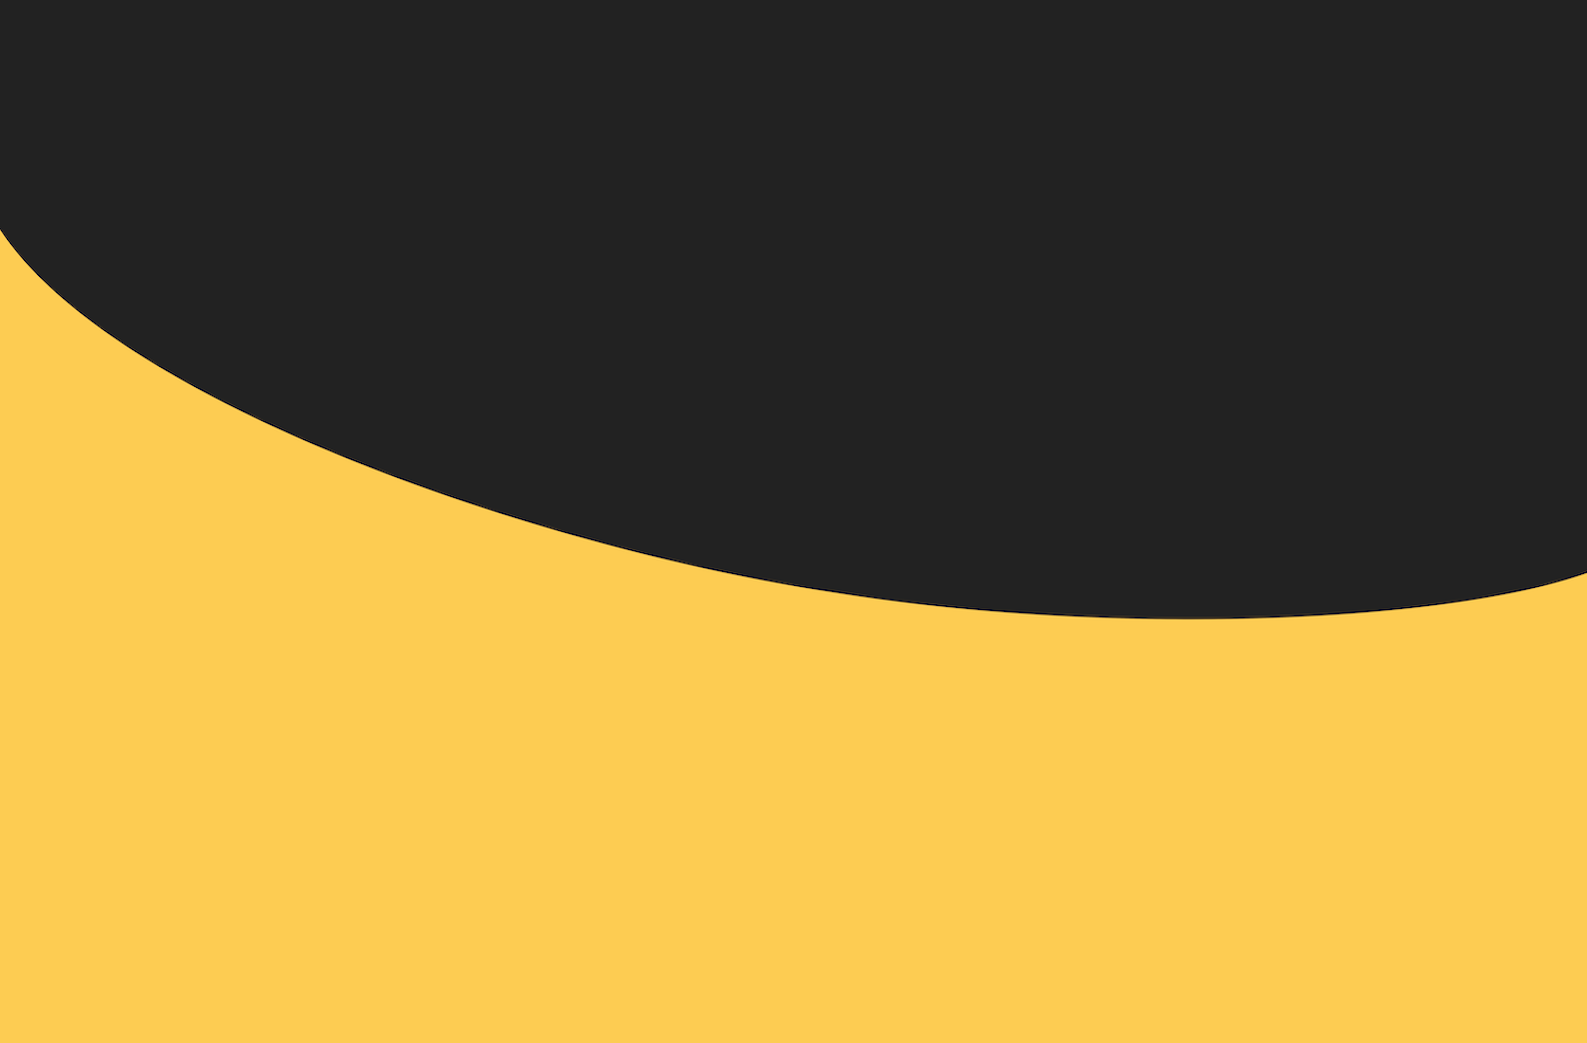
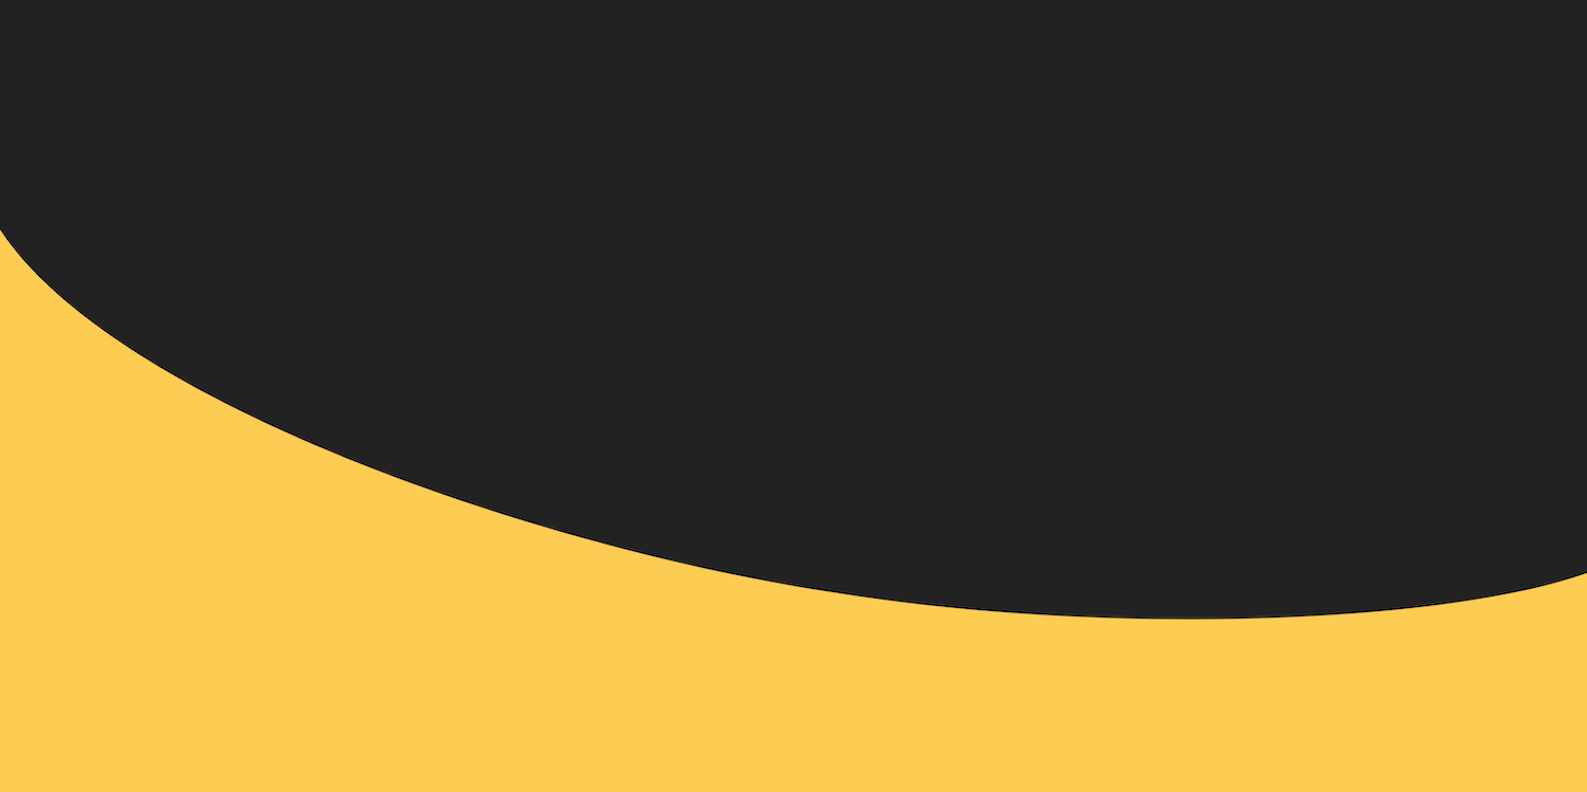
Update

Changed region(s): [[0.0, 0.2121, 1.0, 0.7879]]

diff --git a/css/new-age.min.css b/css/new-age.min.css
@@ -2,4 +2,4 @@
  * Start Bootstrap - New Age v5.0.9 (https://startbootstrap.com/theme/new-age)
  * Copyright 2013-2020 Start Bootstrap
  * Licensed under MIT (https://github.com/StartBootstrap/startbootstrap-new-age/blob/master/LICENSE)
- */body,html{width:100%;height:100%}body{font-family:Helvetica,Arial,sans-serif}a{color:#fdcc52;transition:all .35s}a:focus,a:hover{color:#fcbd20}hr{max-width:100px;margin:25px auto 0;border-width:1px;border-color:rgba(34,34,34,.1)}hr.light{border-color:#fff}h1,h2,h3,h4,h5,h6{font-family:Comfortaa,Helvetica,Arial,serif;font-weight:200;letter-spacing:1px}p{font-size:18px;line-height:1.5;margin-bottom:20px}section{padding:100px 0}section h2{font-size:50px}#mainNav{border-color:rgba(34,34,34,.05);background-color:#fff;transition:all .35s;font-family:Catamaran,Helvetica,Arial,sans-serif;font-weight:200;letter-spacing:1px}#mainNav .navbar-brand{color:#fdcc52;font-family:Catamaran,Helvetica,Arial,sans-serif;font-weight:200;letter-spacing:1px}#mainNav .navbar-brand:focus,#mainNav .navbar-brand:hover{color:#fcbd20}#mainNav .navbar-toggler{font-size:12px;padding:8px 10px;color:#fff}#mainNav .navbar-nav>li>a{font-size:11px;font-family:Lato,Helvetica,Arial,sans-serif;letter-spacing:2px;text-transform:uppercase}#mainNav .navbar-nav>li>a.active{color:#fdcc52!important;background-color:transparent}#mainNav .navbar-nav>li>a.active:hover{background-color:transparent}#mainNav .navbar-nav>li>a,#mainNav .navbar-nav>li>a:focus{color:#fff}#mainNav .navbar-nav>li>a:focus:hover,#mainNav .navbar-nav>li>a:hover{color:#fdcc52}@media (min-width:992px){#mainNav{border-color:transparent;background-color:transparent}#mainNav .navbar-brand{color:fade(white,70%)}#mainNav .navbar-brand:focus,#mainNav .navbar-brand:hover{color:#fff}#mainNav .navbar-nav>li>a,#mainNav .navbar-nav>li>a:focus{color:rgba(255,255,255,.7)}#mainNav .navbar-nav>li>a:focus:hover,#mainNav .navbar-nav>li>a:hover{color:#fff}#mainNav.navbar-shrink{border-color:rgba(34,34,34,.1);background-color:#1C1C1C}#mainNav.navbar-shrink .navbar-brand{color:#fff}#mainNav.navbar-shrink .navbar-brand:focus,#mainNav.navbar-shrink .navbar-brand:hover{color:#fdcc52}#mainNav.navbar-shrink .navbar-nav>li>a,#mainNav.navbar-shrink .navbar-nav>li>a:focus{color:#fff}#mainNav.navbar-shrink .navbar-nav>li>a:focus:hover,#mainNav.navbar-shrink .navbar-nav>li>a:hover{color:#fdcc52}}section.masthead{position:relative;width:100%;height:auto;background-size:100% 100%;padding-top:130px;padding-bottom:0px;color:#ffffff;background:#1C1C1C;background:url(../img/background.png)}header.masthead .header-content{margin-bottom:0px;text-align:center}section.masthead .header-content h1{font-size:30px}section.masthead .device-container{max-width:690px;margin-right:auto;margin-left:auto}header.masthead .device-container .screen img{border-radius:3px}@media (min-width:992px){header.masthead{height:100vh;min-height:775px;padding-top:0;padding-bottom:0}header.masthead .header-content{margin-bottom:0;text-align:left}header.masthead .header-content h1{font-size:50px}header.masthead .device-container{max-width:250px}header.masthead .device-container{max-width:285px}}section.download{position:relative;padding:25px 0}section.download h2{font-size:20px;color:#FFFFFF;margin-top:0;}section.download .badges .badge-link{display:block;margin-bottom:25px}section.download .badges .badge-link:last-child{margin-bottom:0}section.download .badges .badge-link img{height:60px}@media (min-width:768px){section.download .badges .badge-link{display:inline-block;margin-bottom:0}}@media (min-width:768px){section.download h2{font-size:60px}}section.features {background-color:#1c1c1c;padding:15px}.section-heading{margin-bottom:0px;padding-top:0;padding-bottom:0}section.features .section-heading h2{margin-top:0;margin-bottom:0;color:#FFFFFF}section.features .section-heading p{margin-bottom:0;margin-top:0}section.features .device-container,section.features .feature-item{max-width:325px;margin:0}section.features .device-container{margin-bottom:0;margin-top:0;padding-top:0}@media (min-width:992px){section.features .device-container{margin-bottom:0;margin-top:0}}section.features .feature-item{padding-top:0;padding-bottom:0;text-align:center}section.features .feature-item h3{font-size:60px;color:#FFFFFF}section.features .feature-item i{font-size:60px;color:#FFFFFF;display:block;margin-bottom:0px;background:#1C1C1C;-webkit-background-clip:text;background-clip:text;-webkit-text-fill-color:transparent}section.cta{position:relative;padding:25px 0;width:100%;height:auto;background-image:url(../img/background2.png);background-repeat:no-repeat;background-size:100% 100%;margin:0}section.cta .cta-content{position:relative;z-index:1}section.cta .cta-content h2{font-size:90px;max-width:2000px;margin-top:50px;margin-bottom:25px;color:#ffffff}@media (min-width:768px){section.cta .device-container{max-width:1000px} .cta-content h2{font-size:60px;max-width:1000px}}section.cta .overlay{position:absolute;top:auto;left:auto;width:100%;height:100%;background-color:#FDCC52}section.contact{text-align:center}section.contact h2{margin-top:0;margin-bottom:25px}section.contact h2 i{color:#dd4b39}section.contact ul.list-social{margin-bottom:0}section.contact ul.list-social li a{font-size:40px;line-height:80px;display:block;width:80px;height:80px;color:#1C1C1C;border-radius:100%}section.contact ul.list-social li.social-twitter a{background-color:#1da1f2}section.contact ul.list-social li.social-twitter a:hover{background-color:#0d95e8}section.contact ul.list-social li.social-facebook a{background-color:#3b5998}section.contact ul.list-social li.social-facebook a:hover{background-color:#344e86}section.contact ul.list-social li.social-google-plus a{background-color:#dd4b39}section.contact ul.list-social li.social-google-plus a:hover{background-color:#d73925}footer{padding:25px 0;text-align:center;color:rgba(255,255,255,.3);background-color:#1C1C1C}footer p{font-size:12px;margin:0}footer ul{margin-bottom:0}footer ul li a{font-size:12px;color:rgba(255,255,255,.3)}footer ul li a.active,footer ul li a:active,footer ul li a:focus,footer ul li a:hover{text-decoration:none}.bg-primary{background:#FFDE59;background:linear-gradient(to top, #222222,#222222)}.text-primary{color:#fdcc52}.no-gutter>[class*=col-]{padding-right:0;padding-left:0}.btn-outline{color:#ffffff;border:1px solid;border-color:#ffffff}.btn-outline.active,.btn-outline:active,.btn-outline:focus,.btn-outline:hover{color:#ffffff;border-color:#fdcc52;background-color:#fdcc52}.btn{border-radius:300px;font-family:Lato,Helvetica,Arial,sans-serif;letter-spacing:2px;text-transform:uppercase}.btn-xl{font-size:11px;padding:15px 45px} .nav-pills .nav-link.active {background-color: #FFFFFF;color:#222222} .nav>li>a:hover,.nav>li>a {background-color: #222222;color: #FFFFFF} .nav>li>a:focus,.nav>li>a:active {color: #222222} .nav-pills > li.active > a, .nav-pills > li.active > a:hover, .nav-pills > li.active > a:focus {background-color:#FFFFFF;} .tab-content {color : #FFFFFF;padding : 0px 0px;background-color: #222222;} @font-face {font-family: Comfortaa;src: url("..@font-face {font-family: "Comfortaa";src: url("../Comfortaa_Light.ttf");}
+ */body,html{width:100%;height:100%}body{font-family:Helvetica,Arial,sans-serif}a{color:#fdcc52;transition:all .35s}a:focus,a:hover{color:#fcbd20}hr{max-width:100px;margin:25px auto 0;border-width:1px;border-color:rgba(34,34,34,.1)}hr.light{border-color:#fff}h1,h2,h3,h4,h5,h6{font-family:Comfortaa,Helvetica,Arial,serif;font-weight:200;letter-spacing:1px}p{font-size:18px;line-height:1.5;margin-bottom:20px}section{padding:100px 0}section h2{font-size:50px}#mainNav{border-color:rgba(34,34,34,.05);background-color:#fff;transition:all .35s;font-family:Catamaran,Helvetica,Arial,sans-serif;font-weight:200;letter-spacing:1px}#mainNav .navbar-brand{color:#fdcc52;font-family:Catamaran,Helvetica,Arial,sans-serif;font-weight:200;letter-spacing:1px}#mainNav .navbar-brand:focus,#mainNav .navbar-brand:hover{color:#fcbd20}#mainNav .navbar-toggler{font-size:12px;padding:8px 10px;color:#fff}#mainNav .navbar-nav>li>a{font-size:11px;font-family:Lato,Helvetica,Arial,sans-serif;letter-spacing:2px;text-transform:uppercase}#mainNav .navbar-nav>li>a.active{color:#fdcc52!important;background-color:transparent}#mainNav .navbar-nav>li>a.active:hover{background-color:transparent}#mainNav .navbar-nav>li>a,#mainNav .navbar-nav>li>a:focus{color:#fff}#mainNav .navbar-nav>li>a:focus:hover,#mainNav .navbar-nav>li>a:hover{color:#fdcc52}@media (min-width:992px){#mainNav{border-color:transparent;background-color:transparent}#mainNav .navbar-brand{color:fade(white,70%)}#mainNav .navbar-brand:focus,#mainNav .navbar-brand:hover{color:#fff}#mainNav .navbar-nav>li>a,#mainNav .navbar-nav>li>a:focus{color:rgba(255,255,255,.7)}#mainNav .navbar-nav>li>a:focus:hover,#mainNav .navbar-nav>li>a:hover{color:#fff}#mainNav.navbar-shrink{border-color:rgba(34,34,34,.1);background-color:#1C1C1C}#mainNav.navbar-shrink .navbar-brand{color:#fff}#mainNav.navbar-shrink .navbar-brand:focus,#mainNav.navbar-shrink .navbar-brand:hover{color:#fdcc52}#mainNav.navbar-shrink .navbar-nav>li>a,#mainNav.navbar-shrink .navbar-nav>li>a:focus{color:#fff}#mainNav.navbar-shrink .navbar-nav>li>a:focus:hover,#mainNav.navbar-shrink .navbar-nav>li>a:hover{color:#fdcc52}}section.masthead{position:relative;height:750px;width:100%;padding-top:130px;padding-bottom:0px;color:#ffffff;background:#1C1C1C;background:url(../img/background.png);background-size:100% 100%}header.masthead .header-content{margin-bottom:0px;text-align:center}section.masthead .header-content h1{font-size:30px}section.masthead .device-container{max-width:690px;margin-right:auto;margin-left:auto}header.masthead .device-container .screen img{border-radius:3px}@media (min-width:992px){header.masthead{height:100vh;min-height:775px;padding-top:0;padding-bottom:0}header.masthead .header-content{margin-bottom:0;text-align:left}header.masthead .header-content h1{font-size:50px}header.masthead .device-container{max-width:250px}header.masthead .device-container{max-width:285px}}section.download{position:relative;padding:25px 0}section.download h2{font-size:20px;color:#FFFFFF;margin-top:0;}section.download .badges .badge-link{display:block;margin-bottom:25px}section.download .badges .badge-link:last-child{margin-bottom:0}section.download .badges .badge-link img{height:60px}@media (min-width:768px){section.download .badges .badge-link{display:inline-block;margin-bottom:0}}@media (min-width:768px){section.download h2{font-size:60px}}section.features {background-color:#1c1c1c;padding:15px}.section-heading{margin-bottom:0px;padding-top:0;padding-bottom:0}section.features .section-heading h2{margin-top:0;margin-bottom:0;color:#FFFFFF}section.features .section-heading p{margin-bottom:0;margin-top:0}section.features .device-container,section.features .feature-item{max-width:325px;margin:0}section.features .device-container{margin-bottom:0;margin-top:0;padding-top:0}@media (min-width:992px){section.features .device-container{margin-bottom:0;margin-top:0}}section.features .feature-item{padding-top:0;padding-bottom:0;text-align:center}section.features .feature-item h3{font-size:60px;color:#FFFFFF}section.features .feature-item i{font-size:60px;color:#FFFFFF;display:block;margin-bottom:0px;background:#1C1C1C;-webkit-background-clip:text;background-clip:text;-webkit-text-fill-color:transparent}section.cta{position:relative;padding:25px 0;height:600px;width:100%;background-image:url(../img/background2.png);background-size: 100% 100%;margin:0}section.cta .cta-content{position:relative;z-index:1}section.cta .cta-content h2{font-size:90px;max-width:2000px;margin-top:50px;margin-bottom:25px;color:#ffffff}@media (min-width:768px){section.cta .device-container{max-width:1000px} .cta-content h2{font-size:60px;max-width:1000px}}section.cta .overlay{position:absolute;top:auto;left:auto;width:100%;height:100%;background-color:#FDCC52}section.contact{text-align:center}section.contact h2{margin-top:0;margin-bottom:25px}section.contact h2 i{color:#dd4b39}section.contact ul.list-social{margin-bottom:0}section.contact ul.list-social li a{font-size:40px;line-height:80px;display:block;width:80px;height:80px;color:#1C1C1C;border-radius:100%}section.contact ul.list-social li.social-twitter a{background-color:#1da1f2}section.contact ul.list-social li.social-twitter a:hover{background-color:#0d95e8}section.contact ul.list-social li.social-facebook a{background-color:#3b5998}section.contact ul.list-social li.social-facebook a:hover{background-color:#344e86}section.contact ul.list-social li.social-google-plus a{background-color:#dd4b39}section.contact ul.list-social li.social-google-plus a:hover{background-color:#d73925}footer{padding:25px 0;text-align:center;color:rgba(255,255,255,.3);background-color:#1C1C1C}footer p{font-size:12px;margin:0}footer ul{margin-bottom:0}footer ul li a{font-size:12px;color:rgba(255,255,255,.3)}footer ul li a.active,footer ul li a:active,footer ul li a:focus,footer ul li a:hover{text-decoration:none}.bg-primary{background:#FFDE59;background:linear-gradient(to top, #222222,#222222)}.text-primary{color:#fdcc52}.no-gutter>[class*=col-]{padding-right:0;padding-left:0}.btn-outline{color:#ffffff;border:1px solid;border-color:#ffffff}.btn-outline.active,.btn-outline:active,.btn-outline:focus,.btn-outline:hover{color:#ffffff;border-color:#fdcc52;background-color:#fdcc52}.btn{border-radius:300px;font-family:Lato,Helvetica,Arial,sans-serif;letter-spacing:2px;text-transform:uppercase}.btn-xl{font-size:11px;padding:15px 45px} .nav-pills .nav-link.active {background-color: #FFFFFF;color:#222222} .nav>li>a:hover,.nav>li>a {background-color: #222222;color: #FFFFFF} .nav>li>a:focus,.nav>li>a:active {color: #222222} .nav-pills > li.active > a, .nav-pills > li.active > a:hover, .nav-pills > li.active > a:focus {background-color:#FFFFFF;} .tab-content {color : #FFFFFF;padding : 0px 0px;background-color: #222222;} @font-face {font-family: Comfortaa;src: url("..@font-face {font-family: "Comfortaa";src: url("../Comfortaa_Light.ttf");}
